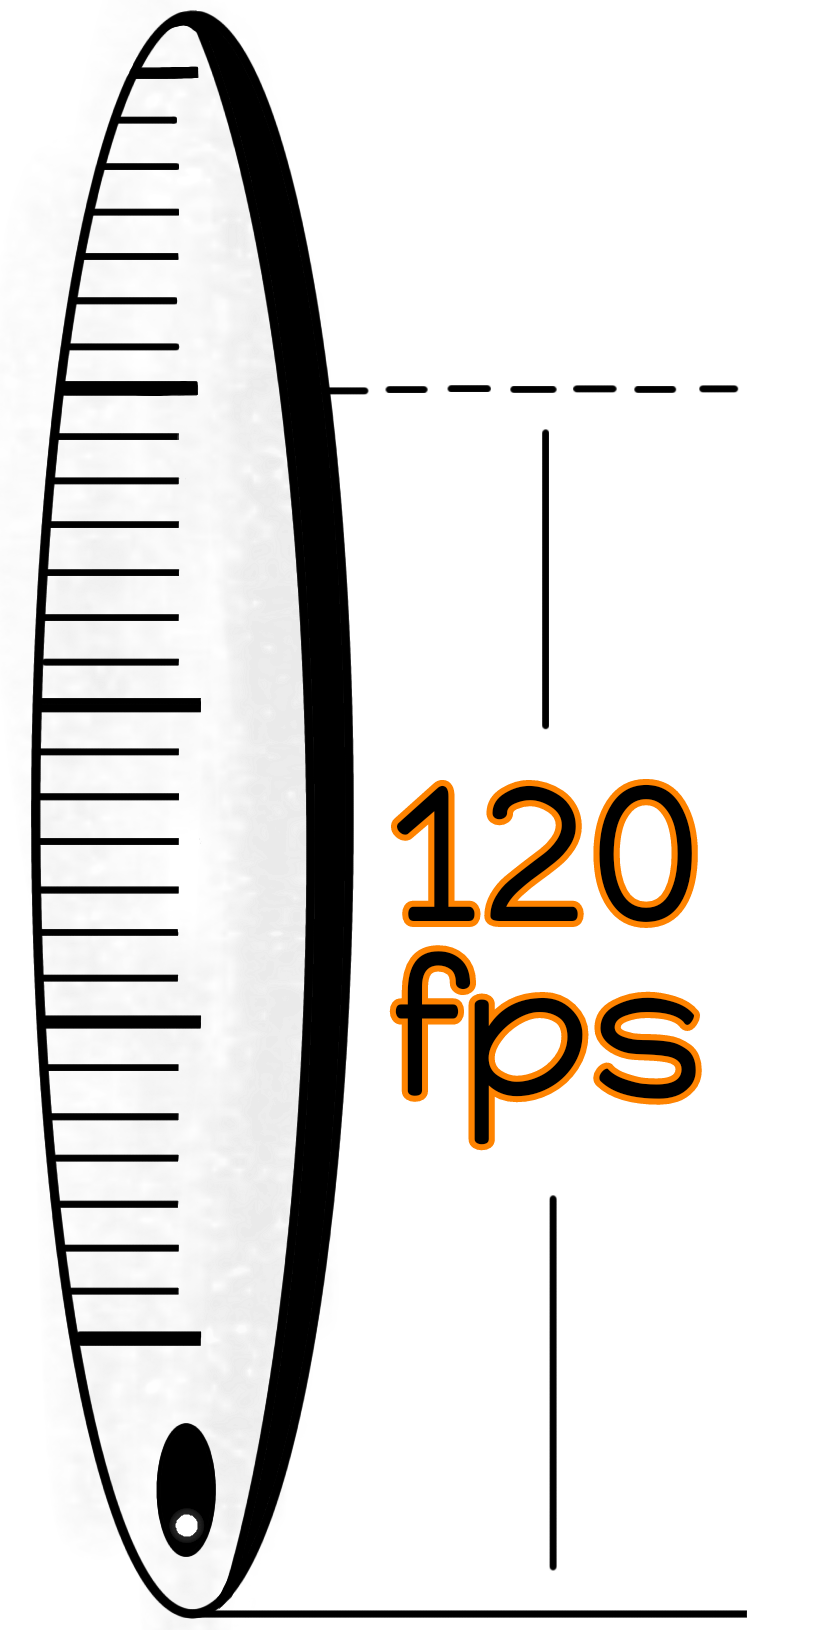
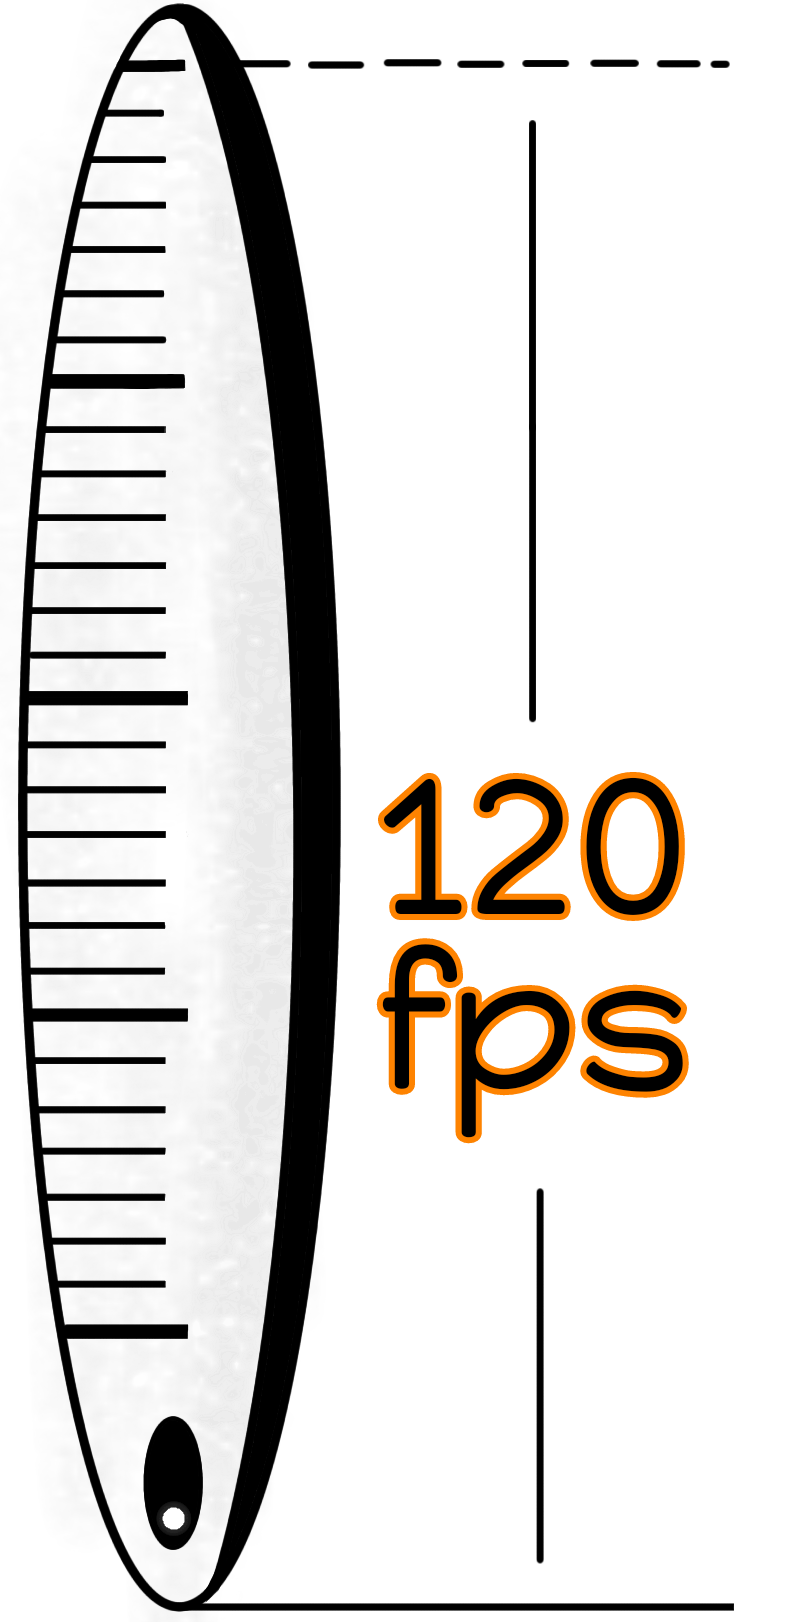
Giraffe images and 120fps_bar image have changed

diff --git a/client/src/types/utils.tsx b/client/src/types/utils.tsx
@@ -1,7 +1,13 @@
 import {Frame, PlatformName} from "./types";
-import ps5_giraffe from "../img/playstation_5_giraffe.png";
-import seriesS_giraffe from "../img/series_s_giraffe.png";
-import seriesX_giraffe from "../img/series_x_giraffe.png";
+import ps5_30fps_giraffe from "../img/giraffes/ps5_30fps.png";
+import ps5_60fps_giraffe from "../img/giraffes/ps5_60fps.png";
+import ps5_120fps_giraffe from "../img/giraffes/ps5_120fps.png";
+import seriesS_30fps_giraffe from "../img/giraffes/series_s_30fps.png";
+import seriesS_60fps_giraffe from "../img/giraffes/series_s_60fps.png";
+import seriesS_120fps_giraffe from "../img/giraffes/series_s_120fps.png";
+import seriesX_30fps_giraffe from "../img/giraffes/series_x_30fps.png";
+import seriesX_60fps_giraffe from "../img/giraffes/series_x_60fps.png";
+import seriesX_120fps_giraffe from "../img/giraffes/series_x_120fps.png";
 import _30fps from "../img/30fps_bar.png";
 import _60fps from "../img/60fps_bar.png";
 import _120fps from "../img/120fps_bar.png";
@@ -16,13 +22,43 @@ export const getPlatformName = (name: PlatformName) => {
     }
 };
 
-export const getPlatformsGiraffe = (name: PlatformName) => {
+function getPS5Giraffe(frame: Frame) {
+    if (frame === Frame._30) {
+        return ps5_30fps_giraffe;
+    } else  if (frame === Frame._60) {
+        return ps5_60fps_giraffe;
+    } else  if (frame === Frame._120) {
+        return ps5_120fps_giraffe;
+    }
+}
+
+function getSeriesSGiraffe(frame: Frame) {
+    if (frame === Frame._30) {
+        return seriesS_30fps_giraffe;
+    } else  if (frame === Frame._60) {
+        return seriesS_60fps_giraffe;
+    } else  if (frame === Frame._120) {
+        return seriesS_120fps_giraffe;
+    }
+}
+
+function getSeriesXGiraffe(frame: Frame) {
+    if (frame === Frame._30) {
+        return seriesX_30fps_giraffe;
+    } else  if (frame === Frame._60) {
+        return seriesX_60fps_giraffe;
+    } else  if (frame === Frame._120) {
+        return seriesX_120fps_giraffe;
+    }
+}
+
+export const getPlatformsGiraffe = (name: PlatformName, frame: Frame) => {
     if (name === PlatformName.PLAYSTATION_5) {
-        return ps5_giraffe;
+        return getPS5Giraffe(frame);
     } else  if (name === PlatformName.XBOX_SERIES_S) {
-        return seriesS_giraffe;
+        return getSeriesSGiraffe(frame);
     } else  if (name === PlatformName.XBOX_SERIES_X) {
-        return seriesX_giraffe;
+        return getSeriesXGiraffe(frame);
     }
 };
 

diff --git a/client/src/components/Game.tsx b/client/src/components/Game.tsx
@@ -131,7 +131,7 @@ const Game = (props: GameProps) => {
                                     {platform.mode && (<GameModeDiv>{platform.mode.toLowerCase()}</GameModeDiv>)}
                                 </PlatformNameDiv>
                                 <Center>
-                                    <Giraffe src={getPlatformsGiraffe(platform.name)}/>
+                                    <Giraffe src={getPlatformsGiraffe(platform.name, platform.frame)}/>
                                     <Bar src={getPlatformFrameBar(platform.frame)}/>
                                 </Center>
                                 <ResolutionText>{platform.resolution}</ResolutionText>
